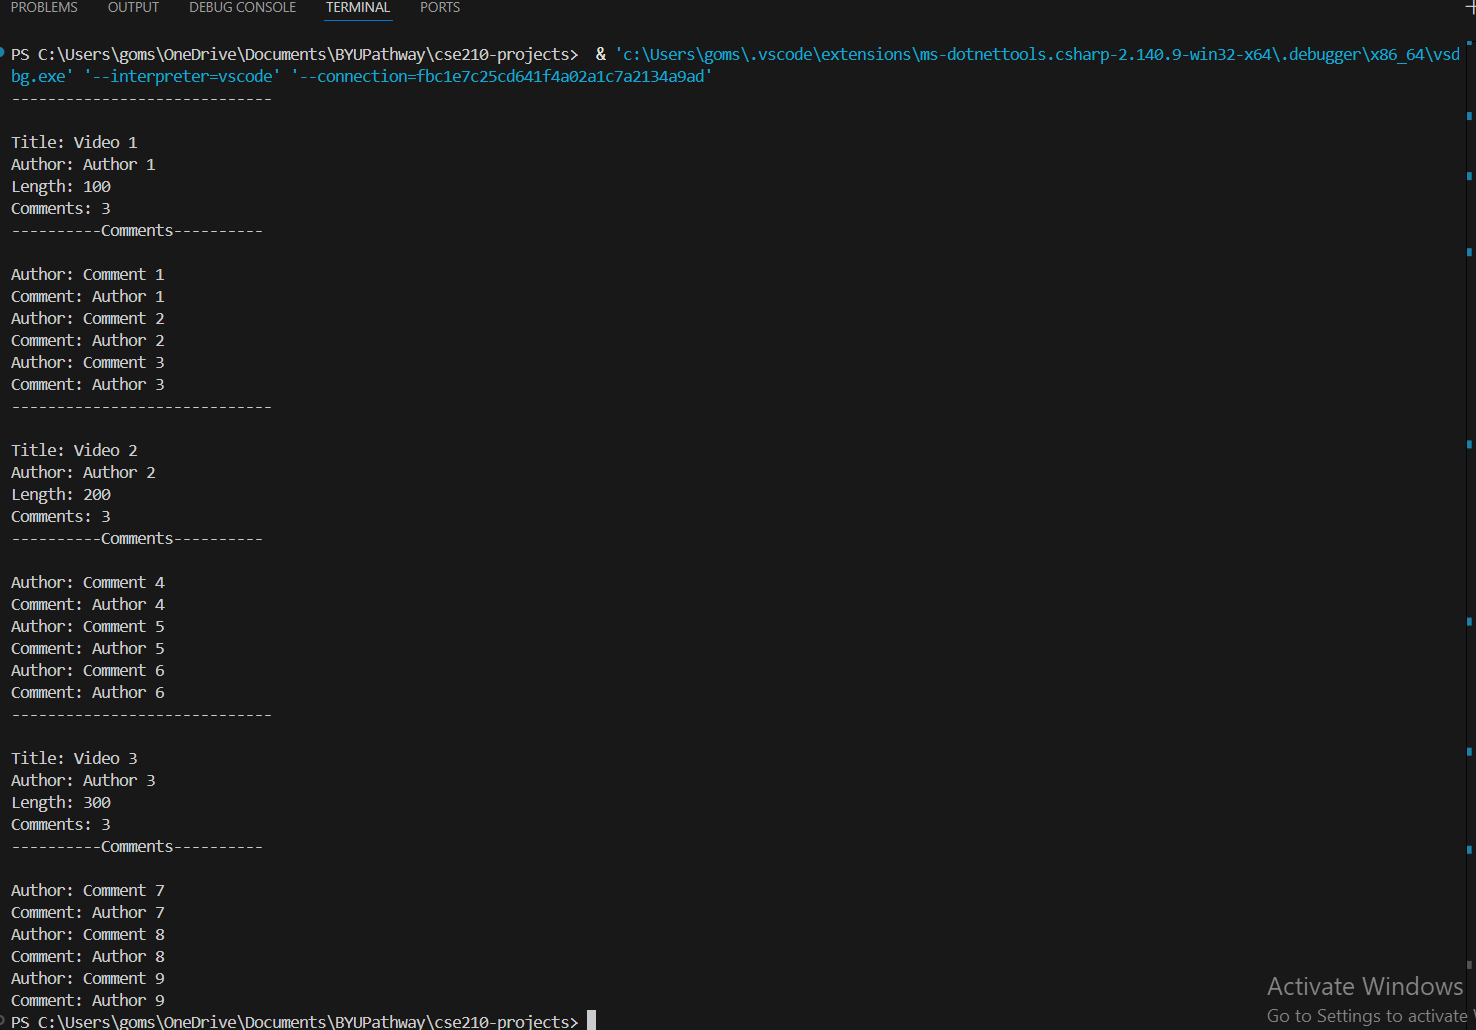
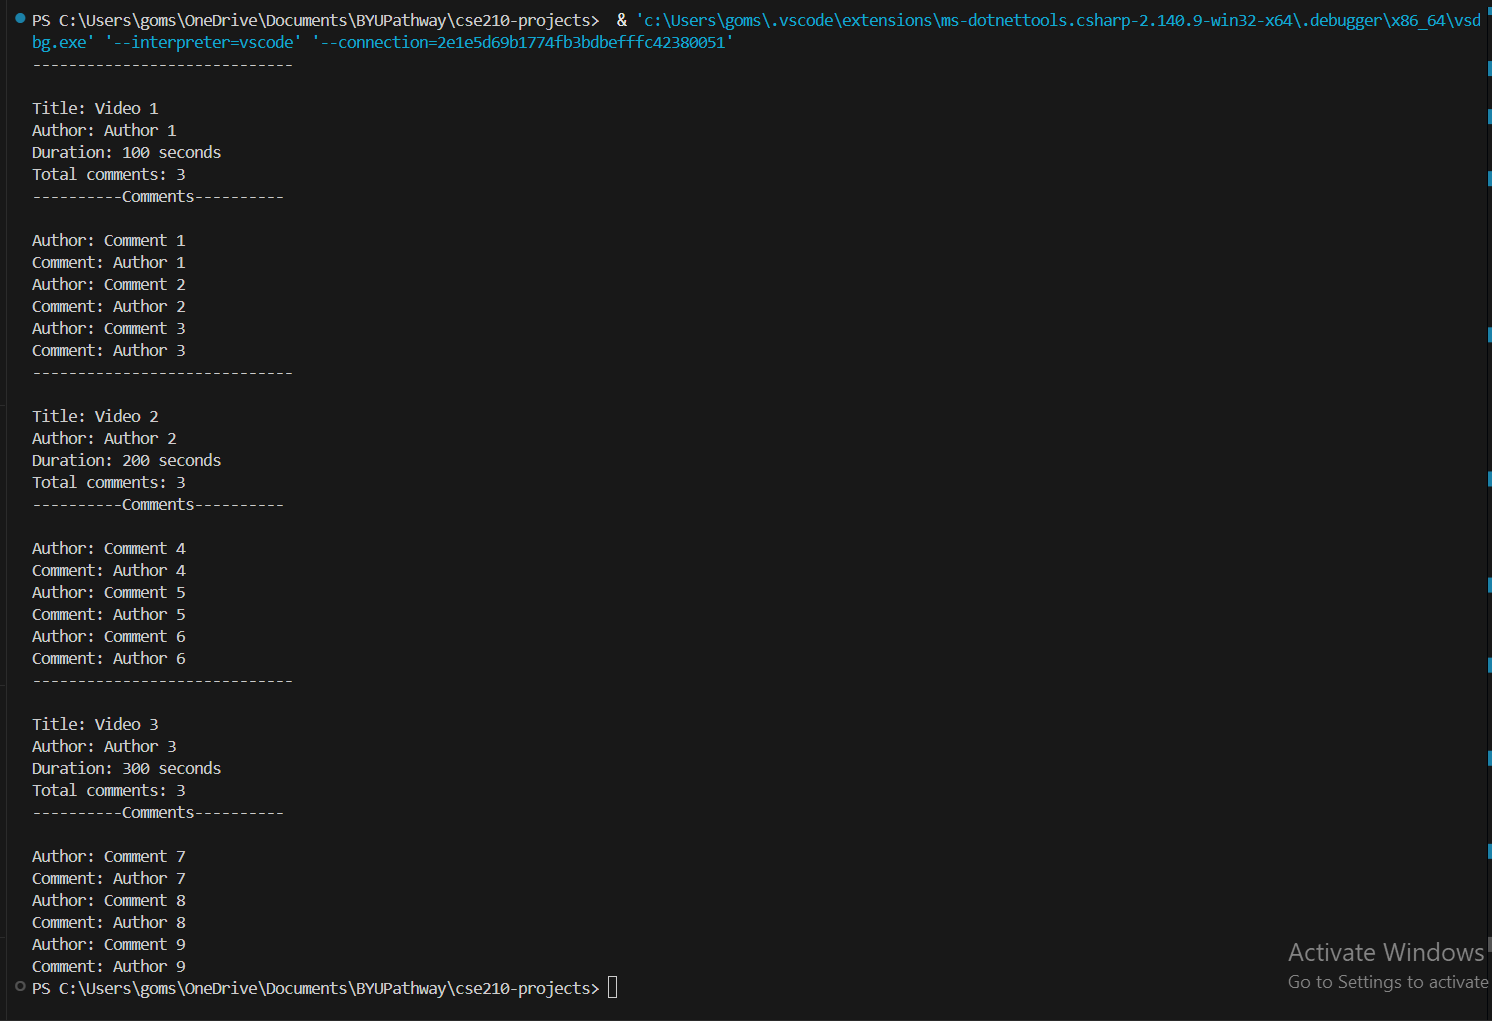
Add total comments calculation of videos

diff --git a/week04/YouTubeVideos/Video.cs b/week04/YouTubeVideos/Video.cs
@@ -12,12 +12,17 @@ public class Video
         Console.WriteLine("-----------------------------\n");
         Console.WriteLine($"Title: {_title}");
         Console.WriteLine($"Author: {_author}");
-        Console.WriteLine($"Length: {_length}");
-        Console.WriteLine($"Comments: {_comments.Count}");
+        Console.WriteLine($"Duration: {_length} seconds");
+        Console.WriteLine($"Total comments: {GetTotalComments()}");
         Console.WriteLine("----------Comments----------\n");
         foreach (Comment comment in _comments)
         {
             comment.Display();
         }
+    }
+
+    public int GetTotalComments()
+    {
+        return _comments.Count;
     }
 }
